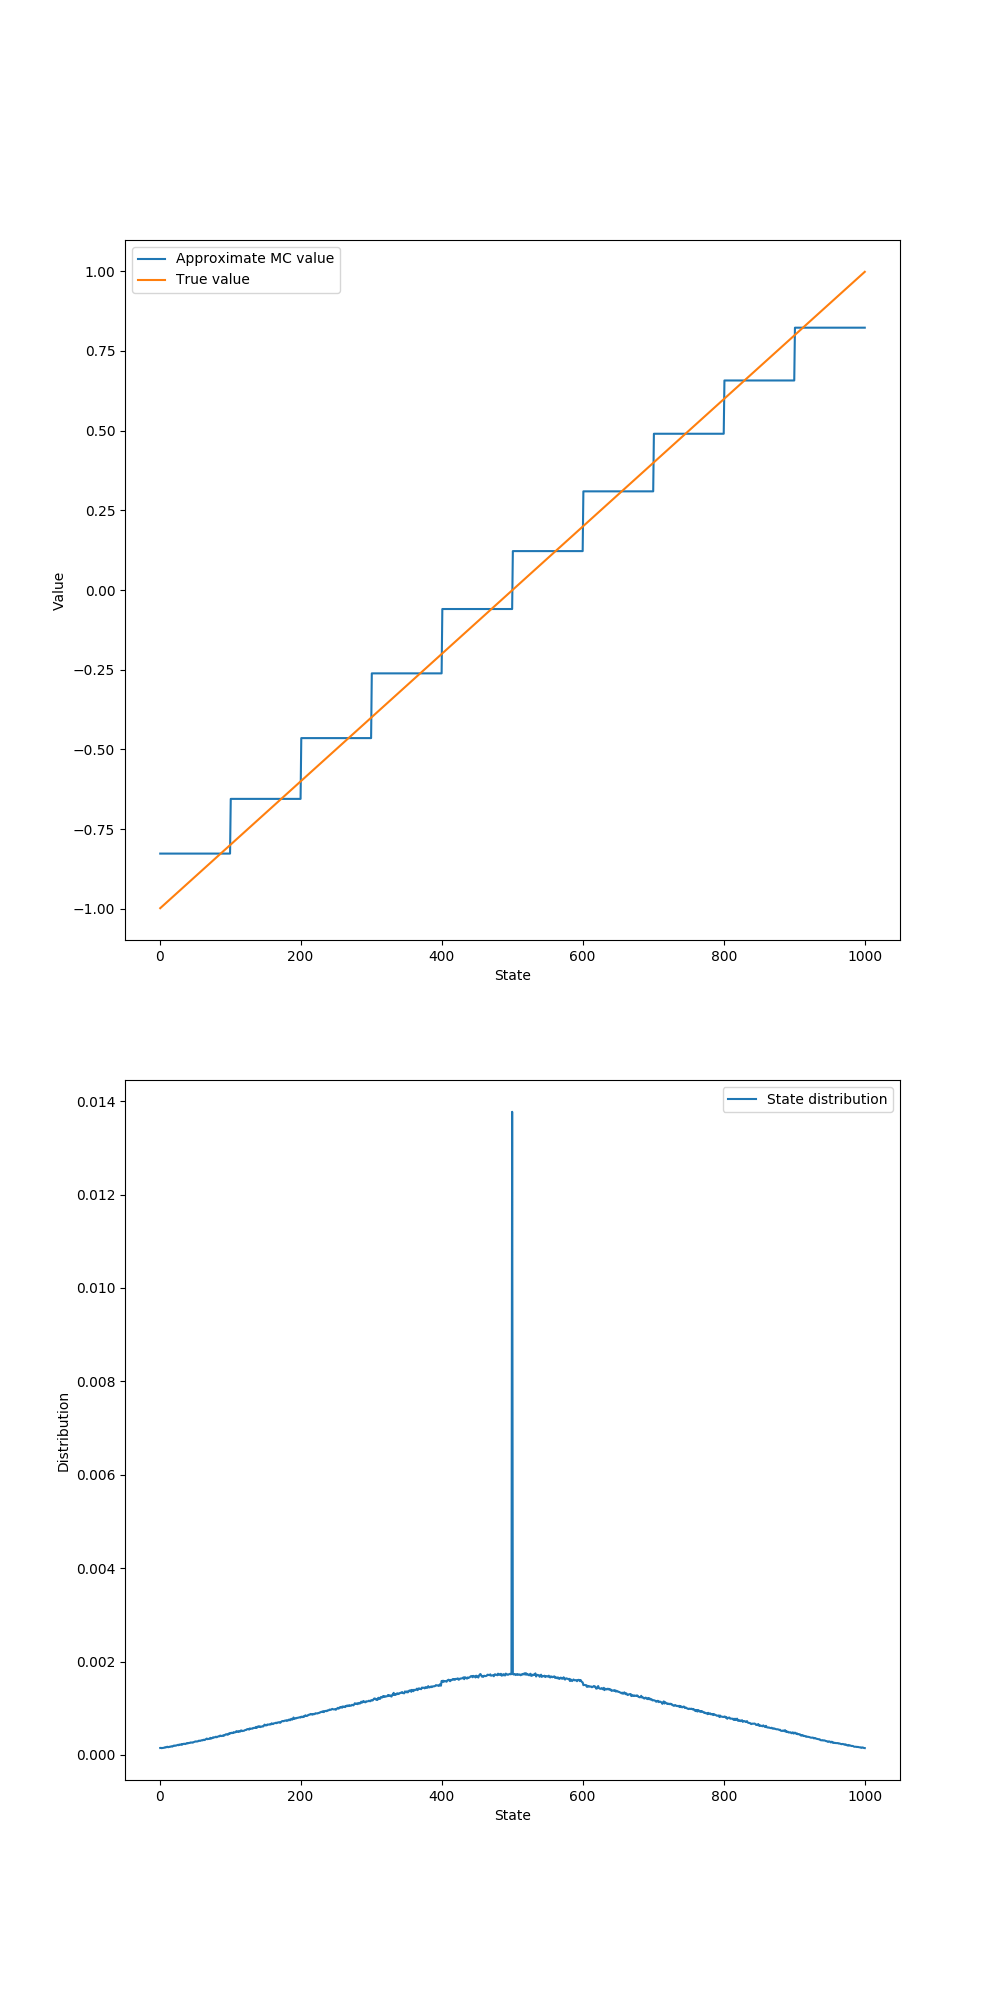
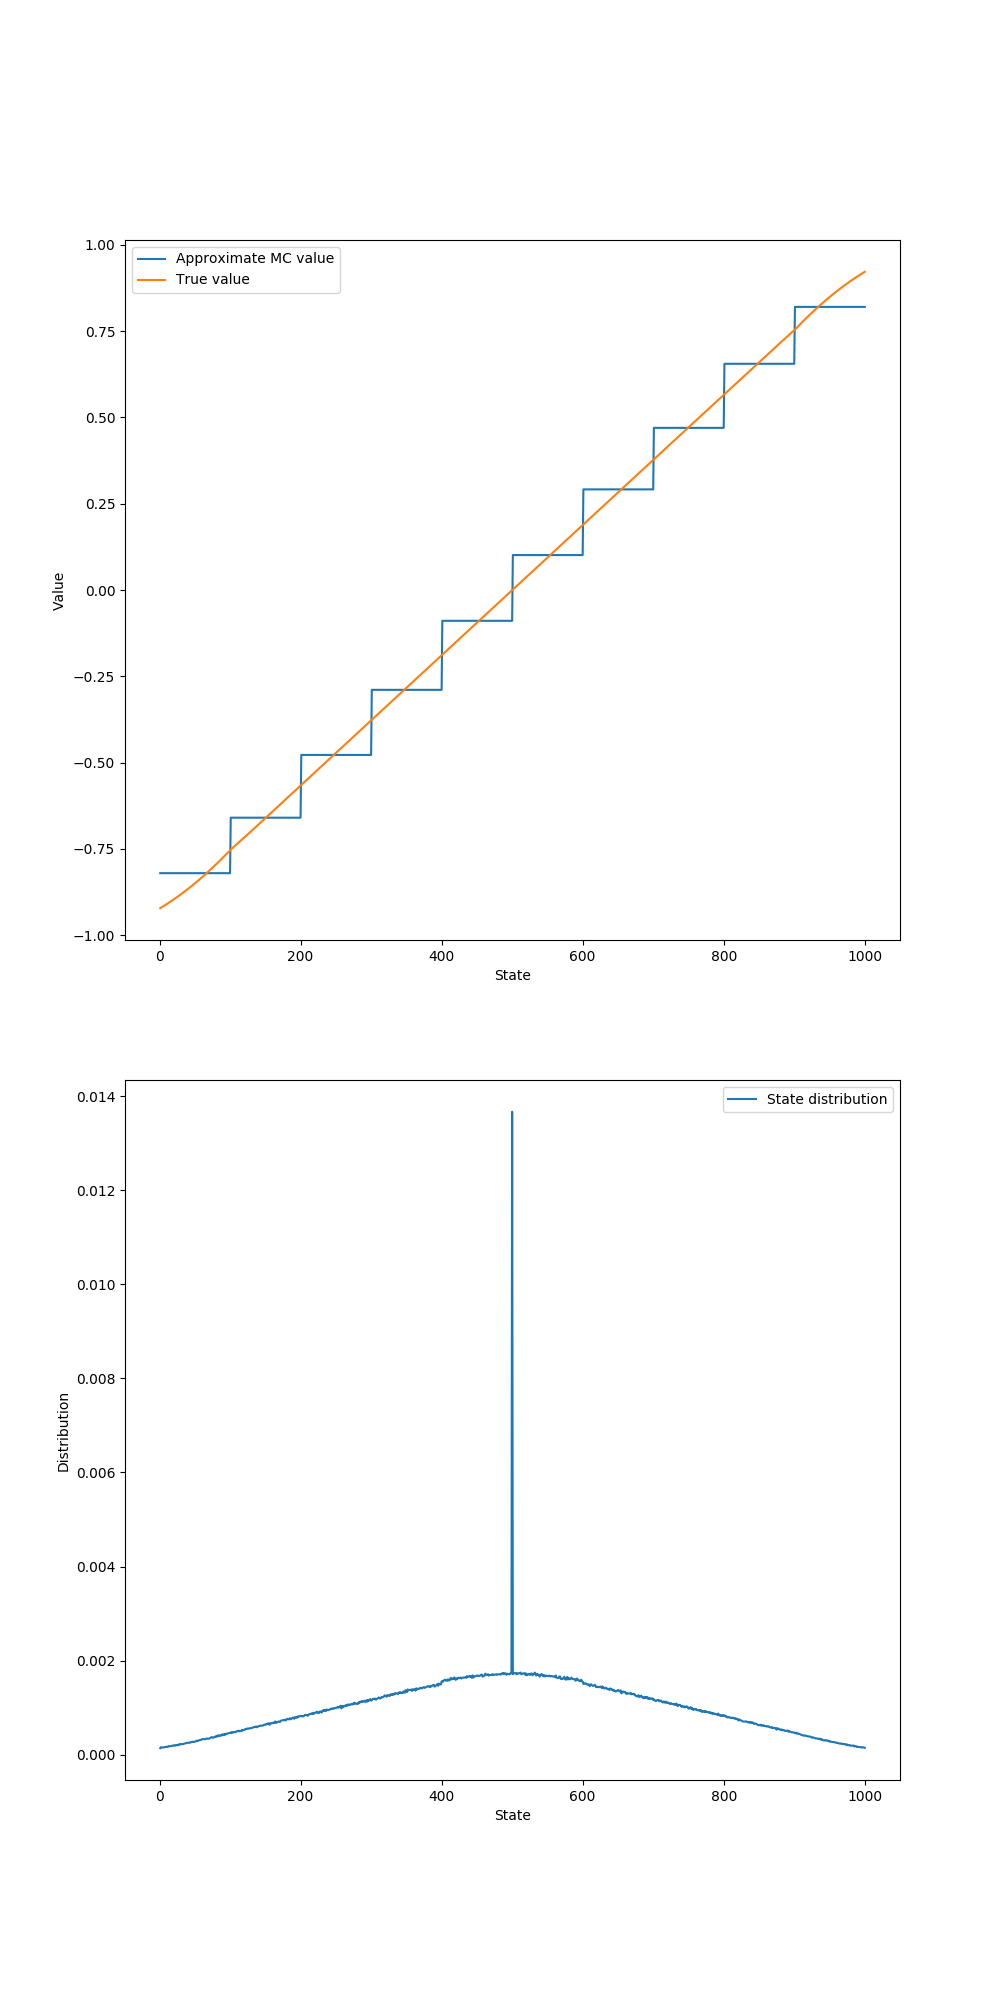
Refactor figure 9.2

diff --git a/chapter09/RandomWalk.py b/chapter09/RandomWalk.py
@@ -15,9 +15,6 @@ from tqdm import tqdm
 # # of states except for terminal states
 N_STATES = 1000
 
-# true state value, just a promising guess
-TRUE_VALUE = np.arange(-1001, 1003, 2) / 1001.0
-
 # all states
 STATES = np.arange(1, N_STATES + 1)
 
@@ -36,25 +33,29 @@ ACTIONS = [ACTION_LEFT, ACTION_RIGHT]
 STEP_RANGE = 100
 
 def compute_true_value():
+    # true state value, just a promising guess
+    true_value = np.arange(-1001, 1003, 2) / 1001.0
+
     # Dynamic programming to find the true state values, based on the promising guess above
     # Assume all rewards are 0, given that we have already given value -1 and 1 to terminal states
     while True:
-        old_value = np.copy(TRUE_VALUE)
+        old_value = np.copy(true_value)
         for state in STATES:
-            TRUE_VALUE[state] = 0
+            true_value[state] = 0
             for action in ACTIONS:
                 for step in range(1, STEP_RANGE + 1):
                     step *= action
                     next_state = state + step
                     next_state = max(min(next_state, N_STATES + 1), 0)
                     # asynchronous update for faster convergence
-                    TRUE_VALUE[state] += 1.0 / (2 * STEP_RANGE) * TRUE_VALUE[next_state]
-        error = np.sum(np.abs(old_value - TRUE_VALUE))
-        print(error)
+                    true_value[state] += 1.0 / (2 * STEP_RANGE) * true_value[next_state]
+        error = np.sum(np.abs(old_value - true_value))
         if error < 1e-2:
             break
     # correct the state value for terminal states to 0
-    TRUE_VALUE[0] = TRUE_VALUE[-1] = 0
+    true_value[0] = true_value[-1] = 0
+
+    return true_value
 
 # take an @action at @state, return new state and reward for this transition
 def step(state, action):
@@ -207,13 +208,13 @@ def gradient_monte_carlo(value_function, alpha, distribution=None):
 # @valueFunction: an instance of class ValueFunction
 # @n: # of steps
 # @alpha: step size
-def semiGradientTemporalDifference(valueFunction, n, alpha):
+def semi_gradient_temporal_difference(value_function, n, alpha):
     # initial starting state
-    currentState = START_STATE
+    state = START_STATE
 
     # arrays to store states and rewards for an episode
     # space isn't a major consideration, so I didn't use the mod trick
-    states = [currentState]
+    states = [state]
     rewards = [0]
 
     # track the time
@@ -228,36 +229,36 @@ def semiGradientTemporalDifference(valueFunction, n, alpha):
         if time < T:
             # choose an action randomly
             action = get_action()
-            newState, reward = step(currentState, action)
+            next_state, reward = step(state, action)
 
             # store new state and new reward
-            states.append(newState)
+            states.append(next_state)
             rewards.append(reward)
 
-            if newState in END_STATES:
+            if next_state in END_STATES:
                 T = time
 
         # get the time of the state to update
-        updateTime = time - n
-        if updateTime >= 0:
+        update_time = time - n
+        if update_time >= 0:
             returns = 0.0
             # calculate corresponding rewards
-            for t in range(updateTime + 1, min(T, updateTime + n) + 1):
+            for t in range(update_time + 1, min(T, update_time + n) + 1):
                 returns += rewards[t]
             # add state value to the return
-            if updateTime + n <= T:
-                returns += valueFunction.value(states[updateTime + n])
-            stateToUpdate = states[updateTime]
+            if update_time + n <= T:
+                returns += value_function.value(states[update_time + n])
+            state_to_update = states[update_time]
             # update the value function
-            if not stateToUpdate in END_STATES:
-                delta = alpha * (returns - valueFunction.value(stateToUpdate))
-                valueFunction.update(delta, stateToUpdate)
-        if updateTime == T - 1:
+            if not state_to_update in END_STATES:
+                delta = alpha * (returns - value_function.value(state_to_update))
+                value_function.update(delta, state_to_update)
+        if update_time == T - 1:
             break
-        currentState = newState
+        state = next_state
 
 # Figure 9.1, gradient Monte Carlo algorithm
-def figure_9_1():
+def figure_9_1(true_value):
     episodes = int(1e5)
     alpha = 2e-5
 
@@ -274,7 +275,7 @@ def figure_9_1():
 
     plt.subplot(2, 1, 1)
     plt.plot(STATES, state_values, label='Approximate MC value')
-    plt.plot(STATES, TRUE_VALUE[1: -1], label='True value')
+    plt.plot(STATES, true_value[1: -1], label='True value')
     plt.xlabel('State')
     plt.ylabel('Value')
     plt.legend()
@@ -289,27 +290,22 @@ def figure_9_1():
     plt.close()
 
 # semi-gradient TD on 1000-state random walk
-def figure9_2Left():
-    nEpisodes = int(1e5)
+def figure_9_2_left(true_value):
+    episodes = int(1e5)
     alpha = 2e-4
-    valueFunction = ValueFunction(10)
-    for episode in range(0, nEpisodes):
-        print('episode:', episode)
-        semiGradientTemporalDifference(valueFunction, 1, alpha)
+    value_function = ValueFunction(10)
+    for ep in tqdm(range(episodes)):
+        semi_gradient_temporal_difference(value_function, 1, alpha)
 
-    stateValues = [valueFunction.value(i) for i in STATES]
-    plt.figure(2)
+    stateValues = [value_function.value(i) for i in STATES]
     plt.plot(STATES, stateValues, label='Approximate TD value')
-    plt.plot(STATES, TRUE_VALUE[1: -1], label='True value')
+    plt.plot(STATES, true_value[1: -1], label='True value')
     plt.xlabel('State')
     plt.ylabel('Value')
     plt.legend()
 
 # different alphas and steps for semi-gradient TD
-def figure9_2Right():
-    # truncate value for better display
-    truncateValue = 0.55
-
+def figure_9_2_right(true_value):
     # all possible steps
     steps = np.power(2, np.arange(0, 10))
 
@@ -324,32 +320,35 @@ def figure9_2Right():
 
     # track the errors for each (step, alpha) combination
     errors = np.zeros((len(steps), len(alphas)))
-    for run in range(0, runs):
-        for stepInd, step in zip(range(len(steps)), steps):
-            for alphaInd, alpha in zip(range(len(alphas)), alphas):
-                print('run:', run, 'step:', step, 'alpha:', alpha)
+    for run in tqdm(range(runs)):
+        for step_ind, step in zip(range(len(steps)), steps):
+            for alpha_ind, alpha in zip(range(len(alphas)), alphas):
                 # we have 20 aggregations in this example
-                valueFunction = ValueFunction(20)
+                value_function = ValueFunction(20)
                 for ep in range(0, episodes):
-                    semiGradientTemporalDifference(valueFunction, step, alpha)
+                    semi_gradient_temporal_difference(value_function, step, alpha)
                     # calculate the RMS error
-                    currentStateValues = np.asarray([valueFunction.value(i) for i in STATES])
-                    errors[stepInd, alphaInd] += np.sqrt(np.sum(np.power(currentStateValues - TRUE_VALUE[1: -1], 2)) / N_STATES)
+                    state_value = np.asarray([value_function.value(i) for i in STATES])
+                    errors[step_ind, alpha_ind] += np.sqrt(np.sum(np.power(state_value - true_value[1: -1], 2)) / N_STATES)
     # take average
     errors /= episodes * runs
     # truncate the error
-    errors[errors > truncateValue] = truncateValue
-    plt.figure(3)
-    for i in range(0, len(steps)):
+    for i in range(len(steps)):
         plt.plot(alphas, errors[i, :], label='n = ' + str(steps[i]))
     plt.xlabel('alpha')
     plt.ylabel('RMS error')
+    plt.ylim([0.25, 0.55])
     plt.legend()
 
-# Figure 9.2, it will take quite a while
-def figure9_2():
-    figure9_2Left()
-    figure9_2Right()
+def figure_9_2(true_value):
+    plt.figure(figsize=(10, 20))
+    plt.subplot(2, 1, 1)
+    figure_9_2_left(true_value)
+    plt.subplot(2, 1, 2)
+    figure_9_2_right(true_value)
+
+    plt.savefig('../images/figure_9_2.png')
+    plt.close()
 
 # Figure 9.5, Fourier basis and polynomials
 def figure9_5():
@@ -380,7 +379,7 @@ def figure9_5():
                     stateValues = [valueFunctions[j].value(state) for state in STATES]
 
                     # get the root-mean-squared error
-                    errors[j, i, episode] += np.sqrt(np.mean(np.power(TRUE_VALUE[1: -1] - stateValues, 2)))
+                    errors[j, i, episode] += np.sqrt(np.mean(np.power(true_value[1: -1] - stateValues, 2)))
 
     # average over independent runs
     errors /= runs
@@ -436,7 +435,7 @@ def figure9_10():
                 stateValues = [valueFunctions[i].value(state) for state in STATES]
 
                 # get the root-mean-squared error
-                errors[i][episode] += np.sqrt(np.mean(np.power(TRUE_VALUE[1: -1] - stateValues, 2)))
+                errors[i][episode] += np.sqrt(np.mean(np.power(true_value[1: -1] - stateValues, 2)))
 
     # average over independent runs
     errors /= runs
@@ -449,7 +448,11 @@ def figure9_10():
     plt.legend()
 
 if __name__ == '__main__':
-    figure_9_1()
+    # Ture value must be computed before any other figures
+    true_value = compute_true_value()
+
+    figure_9_1(true_value)
+    figure_9_2(true_value)
 
 # figure9_1()
 # figure9_2()
